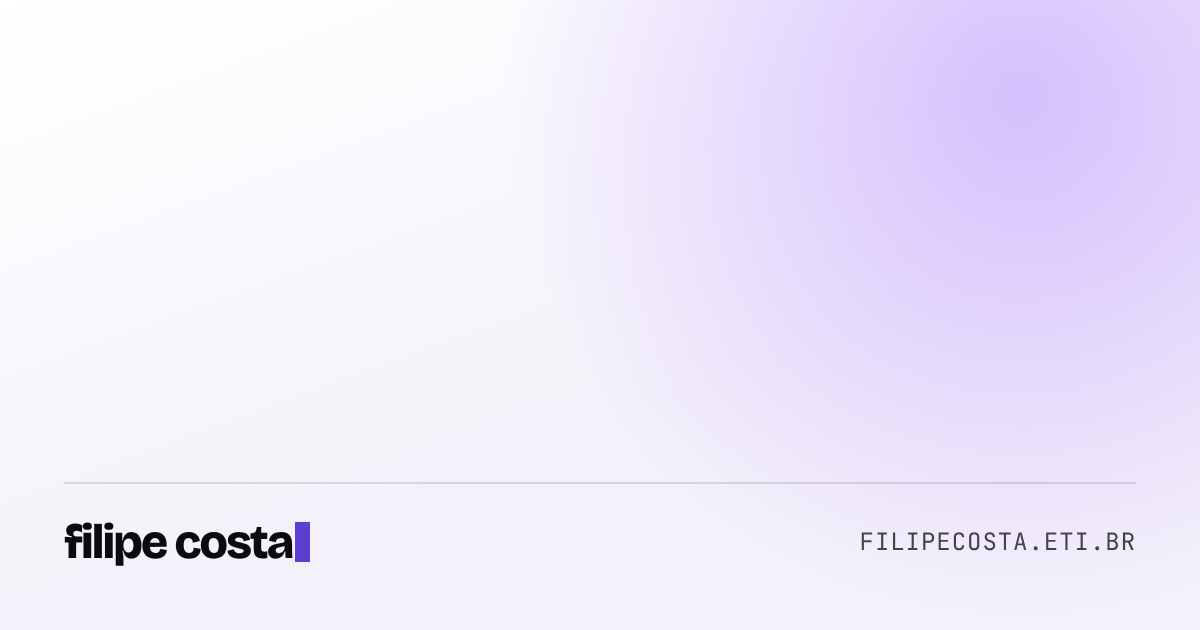
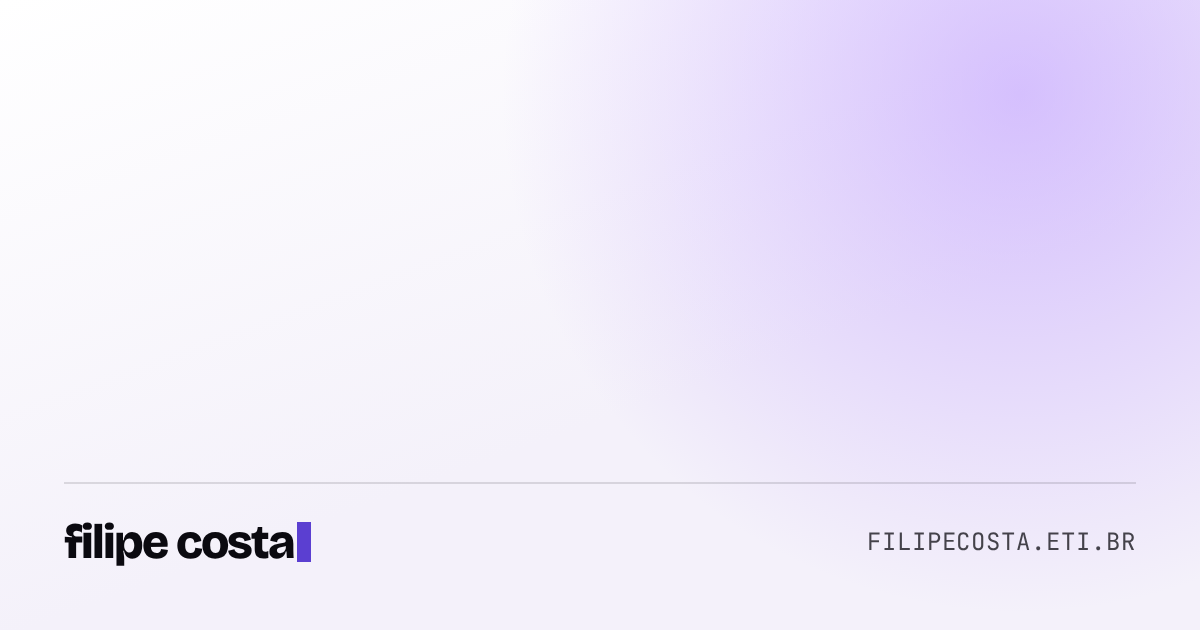
pequenos ajustes visuais - removendo rótulos

Changed region(s): [[0.0617, 0.8444, 0.2467, 0.9048], [0.7092, 0.8444, 0.9558, 0.8746]]

diff --git a/content/sobre.md b/content/sobre.md
@@ -2,7 +2,7 @@
 title: "Sobre Filipe Costa"
 destaque: "Filipe Costa"
 layout: sobre
-rotulo: "sobre"
+rotulo: ""
 subtitulo: "Quinze anos entre código, processos e pessoas. Hoje ajudo equipes a se organizar e trabalhar de forma mais fluida."
 description: "Trajetória, formações e a visão de mundo por trás do trabalho de Filipe Costa."
 ---

diff --git a/content/consultoria/_index.md b/content/consultoria/_index.md
@@ -1,7 +1,7 @@
 ---
 title: "Consultoria"
 destaque: "Consultoria"
-rotulo: "consultoria"
+rotulo: ""
 description: "Processos, serviços e equipes organizados para durar no setor público, em ONGs e em movimentos sociais."
 cascade:
   type: oferta

diff --git a/content/treinamentos/_index.md b/content/treinamentos/_index.md
@@ -1,7 +1,7 @@
 ---
 title: "Treinamentos"
 destaque: "Treinamentos"
-rotulo: "treinamentos"
+rotulo: ""
 description: "Formações práticas, em turma fechada para a sua organização ou em turmas abertas."
 cascade:
   type: oferta

diff --git a/content/contato.md b/content/contato.md
@@ -2,7 +2,7 @@
 title: "Vamos conversar"
 destaque: "conversar"
 layout: contato
-rotulo: "contato"
+rotulo: ""
 description: "Conte o contexto da sua organização e o que vocês precisam resolver. Respondo pessoalmente."
 ---
 
